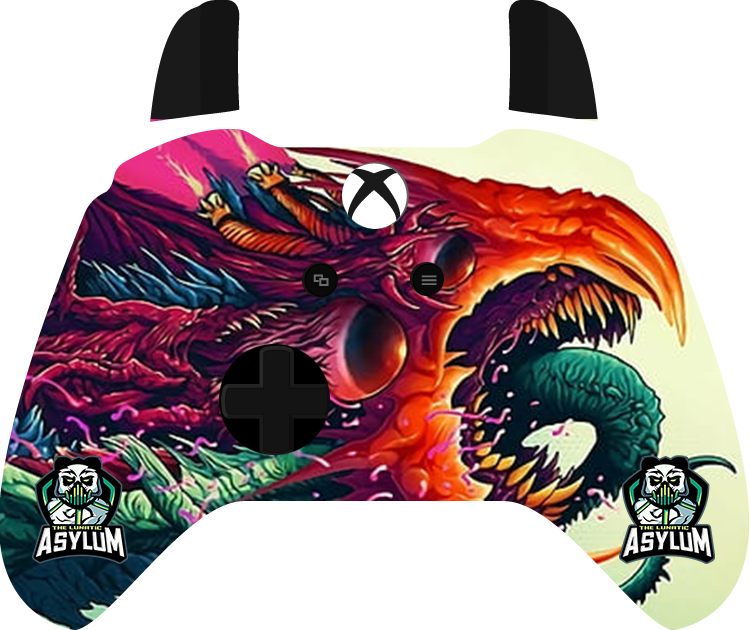
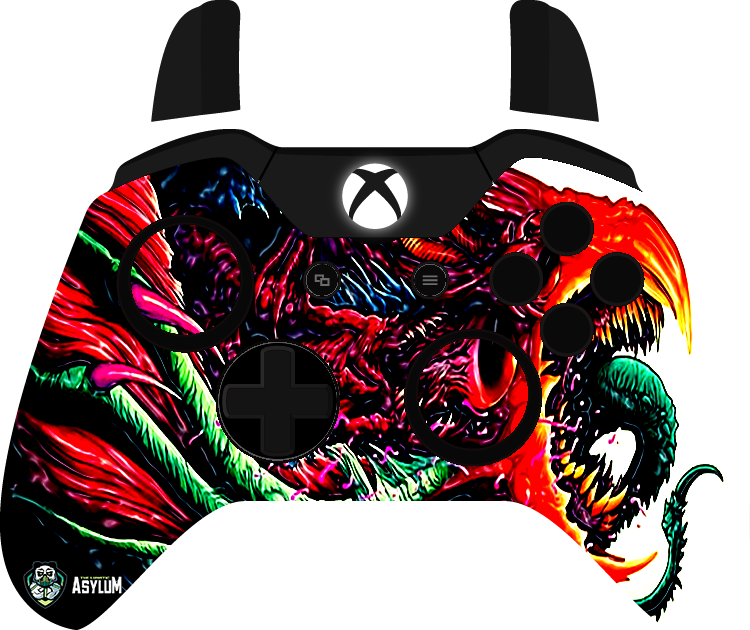
Add files via upload

diff --git a/New Controller/NewController.css b/New Controller/NewController.css
@@ -9,7 +9,7 @@
 
 .xbox .button {
     position: absolute;
-    background: url(abxymodgalaxy.png);
+    background: url(abxymod6.png);
     width: 48px;
     height: 48px;
 }
@@ -54,7 +54,7 @@
 
 .xbox .stick {
     position: absolute;
-    background: url(stickmod1.png);
+    background: url(stickmod6.png);
     background-position: -85px 0;
     height: 83px;
     width: 83px;
